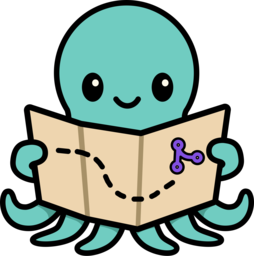
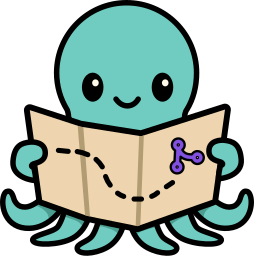
style(site): add dark mode background for hero (#78)
<!-- 👋 Hi, thanks for sending a PR to OctoGuide! 🗺
Please fill out all fields below and make sure each item is true and [x]
checked.
Otherwise we may not be able to review your PR. -->

## PR Checklist

- [x] Addresses an existing open issue: fixes #77
- [x] That issue was marked as [`status: accepting
prs`](https://github.com/JoshuaKGoldberg/OctoGuide/issues?q=is%3Aopen+is%3Aissue+label%3A%22status%3A+accepting+prs%22)
- [x] Steps in
[CONTRIBUTING.md](https://github.com/JoshuaKGoldberg/OctoGuide/blob/main/.github/CONTRIBUTING.md)
were taken

## Overview

- Define start & stop custom properties for the gradient, set in light &
dark mode
- Add a transparent background to the mascot.webp file
- Passes a11y contrast tests

Result:

![A screenshot of the landing page in dark mode: there is a green
gradient in the background, and the mascot blends in with a transparent
background on its
image](https://github.com/user-attachments/assets/876d02d0-fd18-4d44-9e06-a71bbe418671)

---------

diff --git a/site/src/styles/global.css b/site/src/styles/global.css
@@ -29,6 +29,9 @@ table {
 	--sl-color-gray-6: #1f2a1c;
 	--sl-color-black: #151a13;
 
+	--color-gradient-center: #000000;
+	--color-gradient-outer: #343a35;
+
 	--color-grayscale-1: #eaeaea;
 	--color-grayscale-2: #bdbdbd;
 	--color-grayscale-3: #828282;
@@ -51,6 +54,9 @@ table {
 	--sl-color-gray-6: #eaf0e8;
 	--sl-color-gray-7: #f4f7f3;
 	--sl-color-black: #ffffff;
+
+	--color-gradient-center: var(--sl-color-black);
+	--color-gradient-outer: #ecf6f3;
 
 	--color-grayscale-1: #1a1a1a;
 	--color-grayscale-2: #303030;
